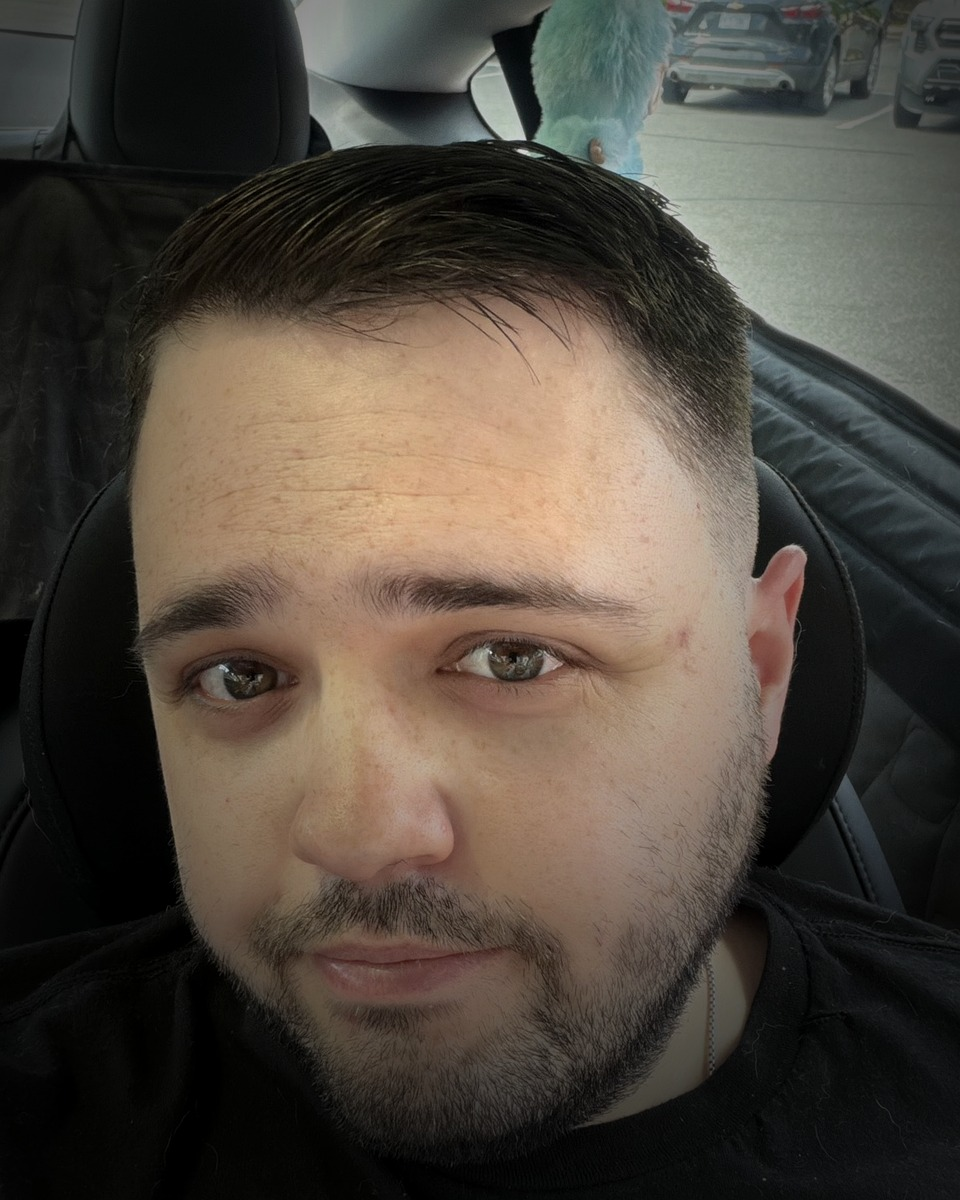
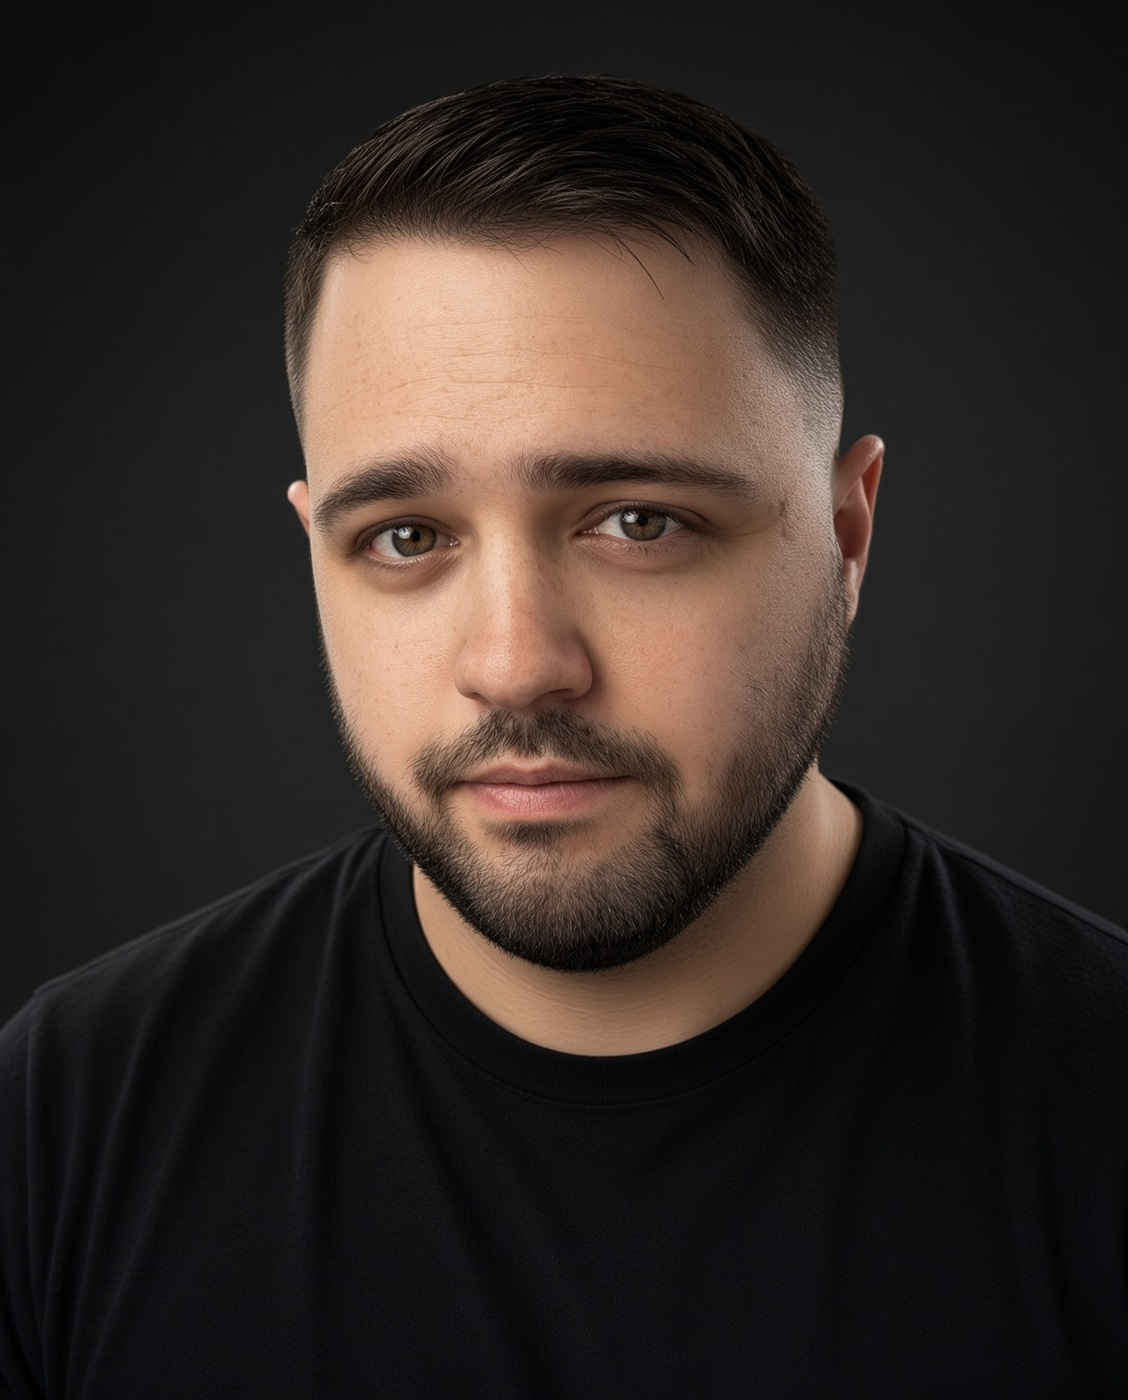
assets: use Grok Imagine dark studio portrait in product-stage hero

diff --git a/index.html b/index.html
@@ -1009,6 +1009,6 @@
         nodes.forEach(function (n) { io.observe(n); });
       })();
     </script>
-<!-- cache-bust: 1786083586 -->
+<!-- cache-bust: 1786083710 -->
 </body>
 </html>
